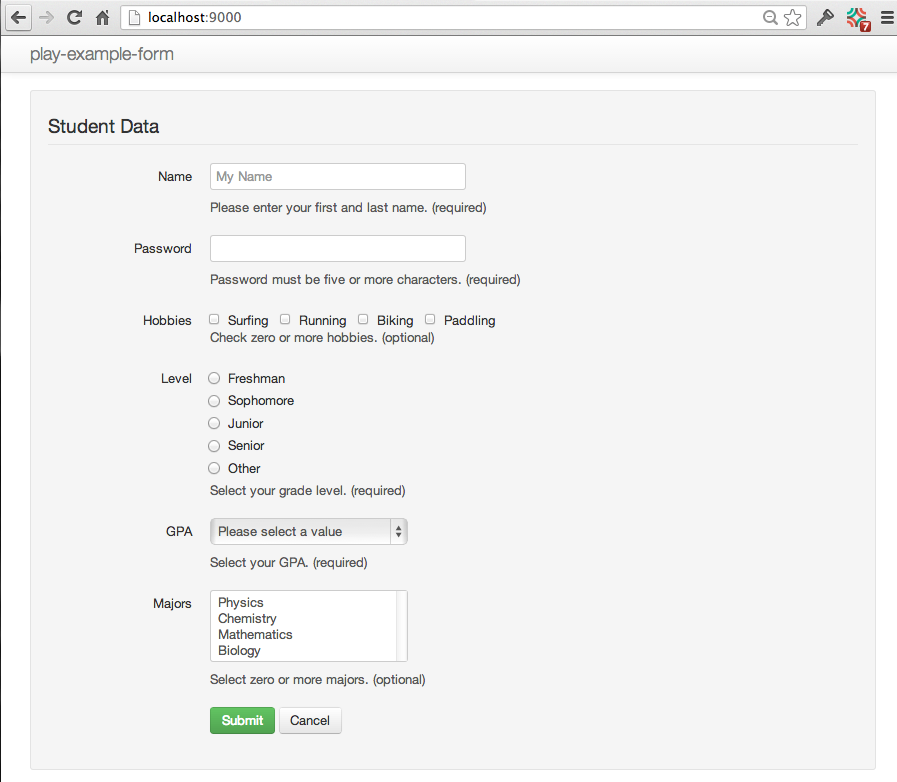
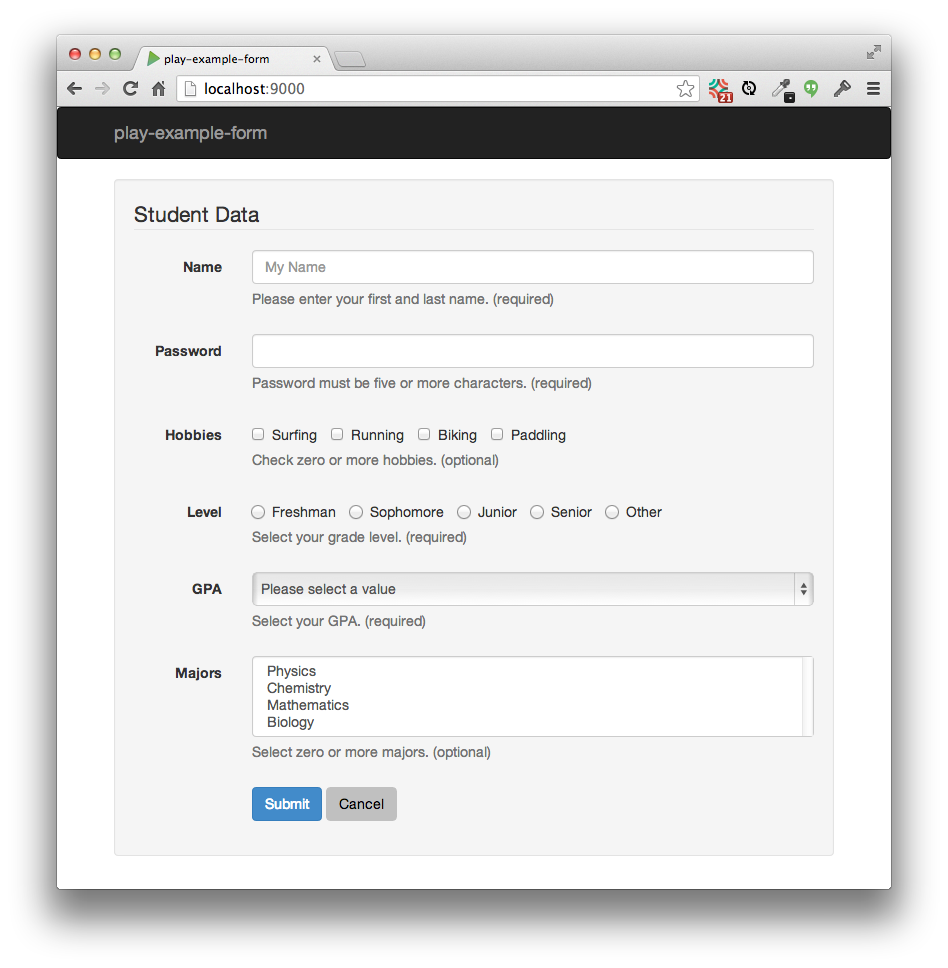
Committing the fixes.

Changed region(s): [[0.0, 0.0, 1.0, 0.9821], [0.8428, 0.5831, 0.874, 0.6138], [0.6555, 0.5217, 0.6867, 0.5524]]

diff --git a/app/views/main.scala.html b/app/views/main.scala.html
@@ -5,16 +5,19 @@
   <head>
     <title>play-example-form</title>
     <link rel="stylesheet" media="screen" href="@routes.WebJarAssets.at(WebJarAssets.locate("bootstrap.min.css"))">
-    <link rel="stylesheet" media="screen" href="@routes.WebJarAssets.at(WebJarAssets.locate("bootstrap-responsive.min.css"))">
     <link rel="stylesheet" media="screen" href="@routes.Assets.at("stylesheets/main.css")">
     <link rel="shortcut icon" type="image/png" href="@routes.Assets.at("images/favicon.png")">
 
   </head>
   <body>
-  <div class="navbar navbar-fixed-top">
-    <div class="navbar-inner">
-      <div class="container">
-        <a class="brand" href="@routes.Application.getIndex()">play-example-form</a>
+  <div class="navbar navbar-inverse" role="navigation">
+    <div class="container">
+      <div class="navbar-header">
+        <button type="button" class="navbar-toggle" data-toggle="collapse" data-target=".navbar-collapse">
+          <!--  Display three horizontal lines when navbar collapsed. -->
+          <span class="icon-bar"></span> <span class="icon-bar"></span> <span class="icon-bar"></span>
+        </button>
+        <a class="navbar-brand" href="/">play-example-form</a>
       </div>
     </div>
   </div>

diff --git a/app/views/bootstrap3/select.scala.html b/app/views/bootstrap3/select.scala.html
@@ -1,0 +1,19 @@
+@(field: Field, label: String, optionMap: Map[String, Boolean], isMultiple: Boolean, help:String)
+
+  <div class="form-group @if(field.hasErrors) {has-error}">
+    <label class="col-sm-2 control-label" for="@field.id">@label</label>
+    <div class="col-sm-10">
+      <select
+        class="form-control"
+        id="@field.id"
+        name="@if(isMultiple) {@(field.name + "[]")} else {@field.name}"
+        @if(isMultiple) {multiple="multiple"}>
+        @if(!isMultiple) {<option class="blank" value="">Please select a value</option>}
+        @for((optionName, isSelected) <- optionMap) {
+          <option id="@optionName" value="@optionName" @if(isSelected) {selected}>@optionName</option>
+        }
+      </select>
+      <p class="help-block">@help</p>
+      <p class="help-block">@{field.error.map { error => error.message }}</p>
+    </div>
+  </div>

diff --git a/app/views/bootstrap3/checkboxes.scala.html b/app/views/bootstrap3/checkboxes.scala.html
@@ -1,0 +1,20 @@
+@(field: Field, label: String, checkboxMap: Map[String, Boolean], help:String)
+
+  <div class="form-group @if(field.hasErrors) {has-error}">
+    <label class="col-sm-2 control-label" for="@field.id">@label</label>
+    <div class="col-sm-10" id="@field.id">
+      @for((checkboxName, isChecked) <- checkboxMap) {
+        <label class="checkbox-inline">
+          <input
+            type="checkbox"
+            name="@(field.name + "[]")"
+            id="@checkboxName"
+            value="@checkboxName"
+            @if(isChecked) {checked}>
+          @checkboxName
+        </label>
+      }
+      <p class="help-block">@help</p>
+      <p class="help-block">@{field.error.map { error => error.message }}</p>
+    </div>
+  </div>

diff --git a/app/views/bootstrap3/radiobuttons.scala.html b/app/views/bootstrap3/radiobuttons.scala.html
@@ -1,0 +1,20 @@
+@(field: Field, label: String, buttonNameList: List[String], help:String)
+
+  <div class="form-group @if(field.hasErrors) {has-error}">
+    <label class="col-sm-2 control-label" for="@field.id">@label</label>
+    <div id="@(field.id + "s")" class="col-sm-10" >
+      @for(buttonName <- buttonNameList) {
+      <label class="radio-inline">
+        <input
+          type="radio"
+          name="@field.name"
+          id="@buttonName"
+          value="@buttonName"
+          @if(buttonName == field.value.getOrElse("")) {checked} />
+        @buttonName
+      </label>
+      }
+      <p class="help-block">@help</p>
+      <p class="help-block">@{field.error.map { error => error.message }}</p>
+    </div>
+  </div>

diff --git a/app/views/fieldset.scala.html b/app/views/fieldset.scala.html
@@ -4,7 +4,7 @@
   gpa:Map[String,Boolean],
   majors:Map[String,Boolean])
 
-@import bootstrap._
+@import bootstrap3._
 
 <fieldset>
   <!-- Header -->
@@ -50,9 +50,9 @@
           true,
           "Select zero or more majors. (optional)")
 
-  <div class="control-group">
-    <div class="controls">
-      <input id="submit" type="submit" value="Submit" class="btn btn-primary">
+  <div class="form-group">
+    <div class="col-sm-offset-2 col-sm-10">
+      <button id="submit" type="submit" value="Submit" class="btn btn-primary">Submit</button>
       <button id="cancel" class="btn cancel">Cancel</button>
     </div>
   </div>

diff --git a/app/views/bootstrap3/text.scala.html b/app/views/bootstrap3/text.scala.html
@@ -1,0 +1,15 @@
+@(field: Field, label:String, placeholder:String, help:String)
+
+  <div class="form-group @if(field.hasErrors) {has-error}">
+    <label class="col-sm-2 control-label">@label</label>
+    <div class="col-sm-10">
+      <input type="text" 
+             class="form-control" 
+             id="@field.id" 
+             name="@field.name" 
+             value="@field.value.getOrElse("")"
+             placeholder="@placeholder" />
+      <p class="help-block">@help</p>
+      <p class="help-block">@{field.error.map { error => error.message }}</p>
+    </div>
+  </div>

diff --git a/app/views/bootstrap3/password.scala.html b/app/views/bootstrap3/password.scala.html
@@ -1,0 +1,16 @@
+@(field: Field, label:String, placeholder:String, help:String)
+
+  <div class="form-group @if(field.hasErrors) {has-error}">
+    <label class="col-sm-2 control-label">@label</label>
+    <div class="col-sm-10">
+      <input
+        type="password"
+        class="form-control"
+        id="@field.id"
+        name="@field.name"
+        value="@field.value.getOrElse("")"
+        placeholder="@placeholder" />
+      <p class="help-block">@help</p>
+      <p class="help-block">@{field.error.map { error => error.message }}</p>
+    </div>
+  </div>

diff --git a/app/views/index.scala.html b/app/views/index.scala.html
@@ -16,13 +16,17 @@
   </div>
 
   @if(flash.containsKey("success")) {
-    <div id="success-message" class="alert alert-success">
+  <div class="well">
+    <div id="success-message" class="text-success">
       @flash.get("success")
     </div>
+  </div>
   }
   @if(flash.containsKey("error")) {
-    <div id="error-message" class="alert alert-error">
+  <div class="well">
+    <div id="error-message" class="text-danger">
       @flash.get("error")
+  </div>
     </div>
   }
 </div>

diff --git a/public/stylesheets/main.css b/public/stylesheets/main.css
@@ -1,3 +1,2 @@
 body {
-    padding-top: 60px;
 }

diff --git a/README.md b/README.md
@@ -5,8 +5,9 @@ Overview
 
 This application provides an example of form processing with the following features:
 
+  * Play Version 2.2
   * [WebJars](http://www.webjars.org/) to download dependencies.
-  * [Twitter Bootstrap 2.3.2](http://getbootstrap.com/2.3.2/).
+  * [Twitter Bootstrap 3.0.0](http://getbootstrap.com/).
   * Individual Twitter Bootstrap [helper templates](https://github.com/ics-software-engineering/play-example-form/tree/master/app/views/bootstrap) for each form control.
   * Separation of [form backing classes](https://github.com/ics-software-engineering/play-example-form/tree/master/app/views/formdata) from [model classes](https://github.com/ics-software-engineering/play-example-form/tree/master/app/models).
   * Validation done with [validate()](https://github.com/ics-software-engineering/play-example-form/blob/master/app/views/formdata/StudentFormData.java#L57-123), not annotations.
@@ -23,12 +24,12 @@ The design of this example differs in two significant ways from the traditional 
      classes for database schemas. Since Play requires the backing classes for forms to have public fields,
      this separation means that model classes can have private fields, avoiding [well documented problems](http://www.manning-sandbox.com/thread.jspa?messageID=143570&#143570). 
 
-  2. **Explicit field constructors for Twitter Bootstrap 2.x.**  The canonical recommendation for users of 
-     Twitter Bootstrap 2.x is to create a single "implicit" field constructor.  The problem with this recommendation
+  2. **Explicit field constructors for Twitter Bootstrap 3.x.**  The canonical recommendation by Play developers for users of 
+     Twitter Bootstrap is to create a single "implicit" field constructor.  The problem with this recommendation
      is that a single implicit field constructor cannot satisfy all of Twitter Bootstrap's layout
      requirements for form controls (for example, multiple checkboxes). This example illustrates
      a more general solution in which normal (i.e. "explicit") scala templates (i.e. field constructors) are defined in the 
-     [views.bootstrap package](https://github.com/ics-software-engineering/play-example-form/tree/master/app/views/bootstrap) for each of the Twitter Bootstrap controls. IMHO, the 
+     [views.bootstrap3 package](https://github.com/ics-software-engineering/play-example-form/tree/master/app/views/bootstrap3) for each of the Twitter Bootstrap controls. IMHO, the 
      code is significantly easier to understand and debug for Java-based Play framework users.  
 
 Steps to understanding the system
@@ -111,9 +112,9 @@ templates are pretty much what you'd expect.
 
 Note that the main template shows how to import JQuery in case you want to use Bootstrap Javascript components.
 
-The second thing to review is the [views.bootstrap](https://github.com/ics-software-engineering/play-example-form/tree/master/app/views/bootstrap)
-subpackage, containing Bootstrap 2.x Scala templates for various form controls. Kudos to [Jason
-Pearson](https://github.com/kaeawc) to writing these templates and making other helpful changes; your t-shirt awaits.
+The second thing to review is the [views.bootstrap3](https://github.com/ics-software-engineering/play-example-form/tree/master/app/views/bootstrap3)
+subpackage, containing Bootstrap 3 Scala templates for various form controls. Kudos to [Jason
+Pearson](https://github.com/kaeawc) to writing these templates and making other helpful changes.
 
 Finally, the [views.formdata](https://github.com/ics-software-engineering/play-example-form/tree/master/app/views/formdata)
 subpackage contains the single backing class ([StudentFormData](https://github.com/ics-software-engineering/play-example-form/blob/master/app/views/formdata/StudentFormData.java)) required for this application.
@@ -169,7 +170,9 @@ If you see ways to solve these problems, please feel free to fork this code and 
 Screencast
 ----------
 
-Click the image below to watch a 28 minute walkthrough of this example:
+Click the image below to watch a 28 minute walkthrough of this system. **Note that this screencast was created for
+a previous version of this system which used Twitter Bootstrap 2.3.2 and Play 2.1.  While the templates in the bootstrap3 package
+have been rewritten, the rest of the system remains unchanged.**
 
 [<img src="https://raw.github.com/ics-software-engineering/play-example-form/master/doc/play-example-form-screencast.png" width="400">](http://www.youtube.com/watch?v=247H9NVpMME)
 
@@ -179,4 +182,5 @@ Acknowledgements
 
 This example is a descendent of the original [play-form-kludge](https://github.com/philipmjohnson/play-form-kludge/tree/original)
 and [Jason Pearson](https://github.com/kaeawc)'s [very helpful improvements](https://github.com/philipmjohnson/play-form-kludge).
+
     
